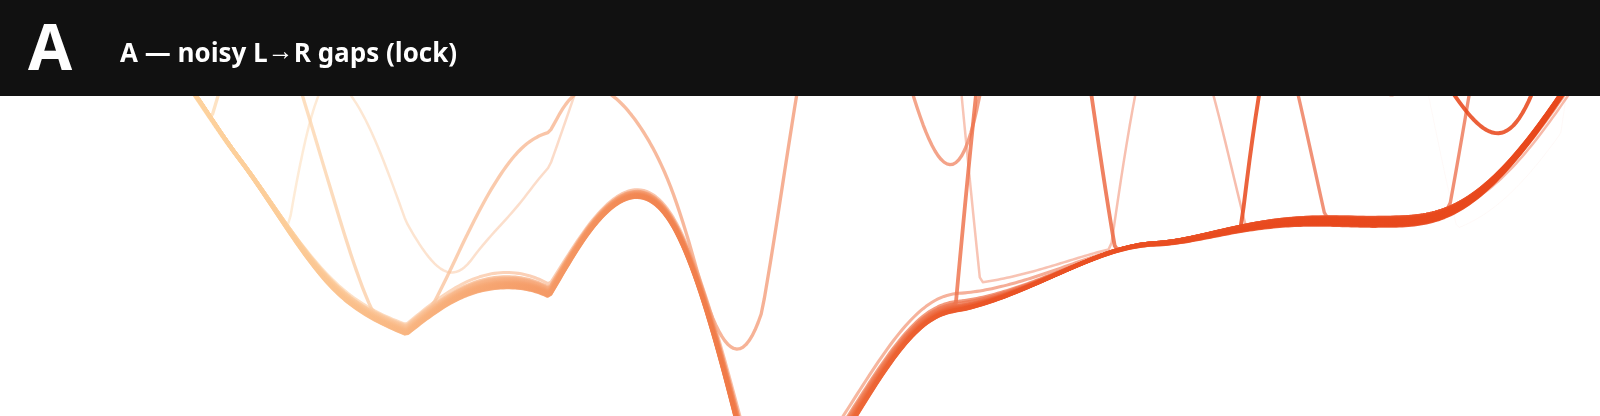
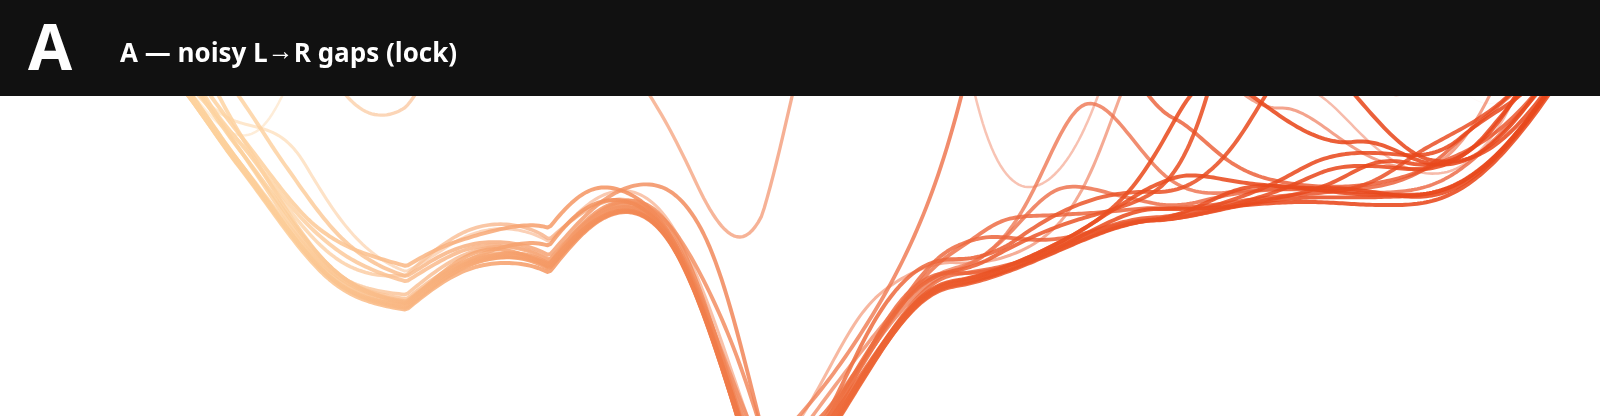
fix(lab): keep Twizzler gap warp in expressive range along X (#CF-16)

diff --git a/apps/lab/src/twizzler.ts b/apps/lab/src/twizzler.ts
@@ -496,20 +496,20 @@ export function twizzlerGapWarpedAcross(
 ): number {
   const x = Math.max(0, Math.min(1, xT));
   const amount = Math.max(0, Math.min(2.5, gapNoise));
-  // Pack fan scale along the ribbon — large L→R swings.
-  const pack =
-    0.12 +
-    2.2 * twizzlerNoise(x * 1.7 + seed * 0.2, seed * 0.71, 0.33) +
-    1.15 * twizzlerNoise(x * 3.9 + 1.3, seed * 1.4, 0.88) +
-    0.7 * twizzlerNoise(x * 8.4 + 0.6, seed * 0.5, 1.6) +
-    0.45 * twizzlerNoise(x * 14.2 + 2.1, seed * 0.9, 2.2);
+  // 0..1 pack field along the ribbon — opens/closes gaps L→R.
+  const packN =
+    0.42 * twizzlerNoise(x * 1.7 + seed * 0.2, seed * 0.71, 0.33) +
+    0.33 * twizzlerNoise(x * 3.9 + 1.3, seed * 1.4, 0.88) +
+    0.25 * twizzlerNoise(x * 8.4 + 0.6, seed * 0.5, 1.6);
+  const pack = 0.35 + packN * (1.1 + amount * 1.15);
   // Neighbor gap jitter — each fiber drifts differently along X.
   const jitter =
-    (twizzlerNoise(x * 2.8 + fiberIndex * 0.67, fiberIndex * 1.19 + seed, 1.35) - 0.5) * (1.1 + amount * 1.2) +
-    (twizzlerNoise(x * 6.4 + fiberIndex * 0.31, seed + 2.4, 0.55) - 0.5) * (0.55 + amount * 0.7) +
-    (twizzlerNoise(x * 11.5 + fiberIndex * 0.19, seed + 5.1, 1.1) - 0.5) * (0.35 + amount * 0.4);
-  const warped = across * (0.35 + amount * 0.75) * pack + jitter * amount;
-  return Math.max(-1.7, Math.min(1.7, warped));
+    (twizzlerNoise(x * 2.8 + fiberIndex * 0.67, fiberIndex * 1.19 + seed, 1.35) - 0.5) * (0.45 + amount * 0.55) +
+    (twizzlerNoise(x * 6.4 + fiberIndex * 0.31, seed + 2.4, 0.55) - 0.5) * (0.25 + amount * 0.35) +
+    (twizzlerNoise(x * 11.5 + fiberIndex * 0.19, seed + 5.1, 1.1) - 0.5) * (0.15 + amount * 0.2);
+  const warped = across * pack + jitter * amount;
+  // Soft bound so noise stays expressive instead of slamming a hard clamp.
+  return Math.tanh(warped) * 1.35;
 }
 
 /**
